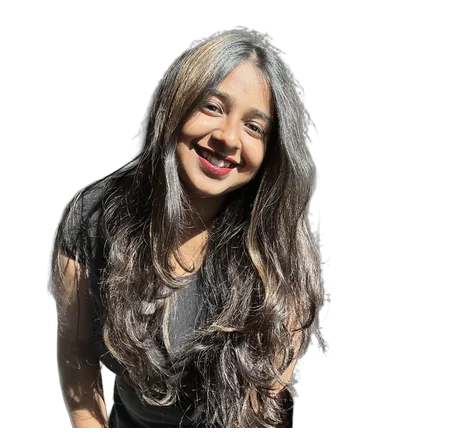
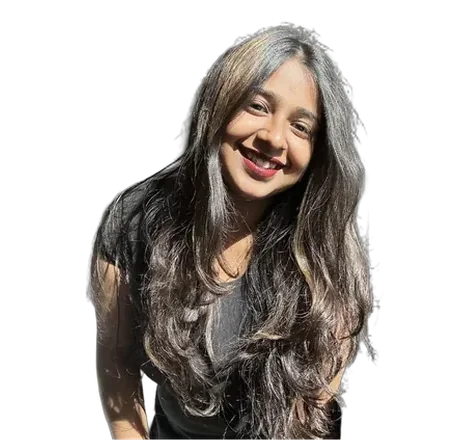
people: Annashri Mahato reaches the floor and stands with her team
Her photograph is a phone selfie cut off at the waist, so the cutout ended
13px above the frame's bottom on a straight line. On /podium and /weekly a
line-up stands on its card's bottom edge, which showed as a floating cut
(/daily hid it under the finish line). Enlarged 3.9% about her eye line so
the body reaches the bottom; face 98 -> 102px, inside the cohort's range.

She leans, so her body sat ~40px left of her centred face and left a gap
beside her teammate; shifted 45px right so she stands with the group.

measure-people.py now flags any body ending more than 4px short (it was
15, which is how this passed).

diff --git a/scripts/measure-people.py b/scripts/measure-people.py
@@ -96,7 +96,10 @@ def cuts(path: Path) -> tuple[float | None, float | None, bool]:
     # A body that stops short of the bottom edge is a passport-style headshot.
     # Those are not used — see the test that fails on one.
     body = [y for y in range(h) if sum(1 for x in range(w) if px[x, y] > 128) > 40]
-    short = bool(body) and max(body) < h - 15
+    # Any gap at all: a line-up stands on its bottom edge on /podium and
+    # /weekly, so a body ending even 13px short is a hard line across it
+    # (Annashri Mahato's phone photo, 24 September 2026). 15px let it pass.
+    short = bool(body) and max(body) < h - 4
     return left, right, short
 
 
